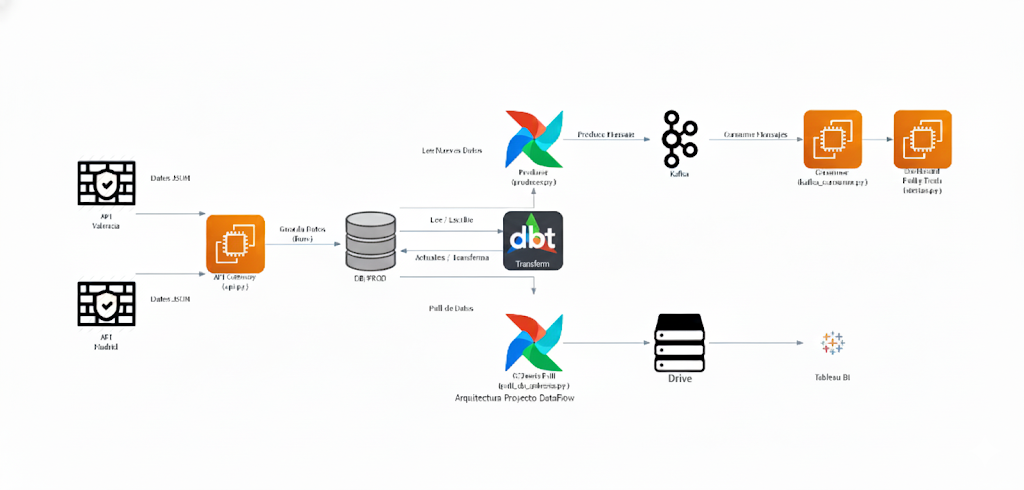
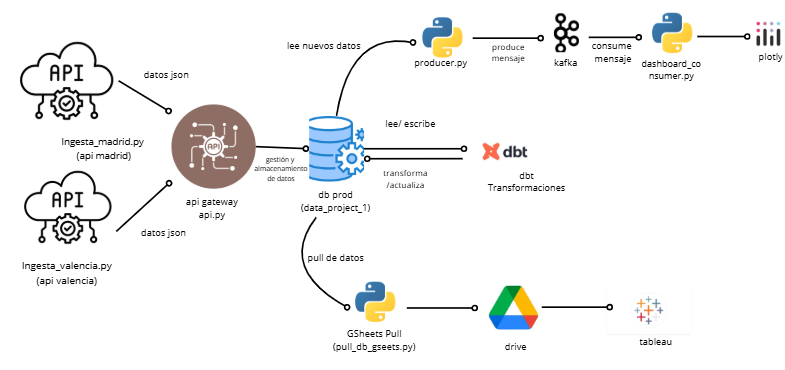
commit

diff --git a/README.md b/README.md
@@ -1,62 +1,239 @@
-# 💨 DATA PROJECT I: Monitorización de la Calidad del Aire
+# **💨 DATA PROJECT I: Sistema de Monitorización de la Calidad del Aire**
 
 **Máster en Big Data & Cloud 2025-2026**
+**Tutor**: Pedro Nieto. 
+**Participantes**: Daniel Adam, Gemma Balaguer, Pau Garcia. 
 
-**Tutor:** Pedro Nieto  
-**Participantes:** Daniel Adam, Pau Garcia, Gemma Balaguer
+## **1. INTORDUCCIÓN**
+El presente proyecto desarrolla un pipeline de datos integral orientado a la monitorización en tiempo real de la calidad del aire en las ciudades de Madrid y Valencia. La solución implementada aborda todas las fases del ciclo de vida del dato: ingesta, estandarización, almacenamiento, transformación, streaming, visualización y distribución hacia herramientas de análisis avanzado.
 
-## 🌟 1. Introducción
+El diseño propuesto responde a la necesidad de disponer de sistemas automatizados, fiables y escalables que permitan emitir alertas inmediatas a la población y proporcionar información detallada a organismos de gestión y toma de decisiones. Para ello, se ha construido una arquitectura modular apoyada en tecnologías ampliamente adoptadas en entornos de datos modernos.
 
-Este proyecto implementa un **pipeline de datos moderno y escalable** para la monitorización en tiempo real de la calidad del aire de las ciudades de **Madrid y Valencia**.
+## **2. Stack Tecnológico.**
 
-El sistema integra la ingesta de APIs externas, almacenamiento relacional, procesamiento **Batch (dbt)** y **Streaming (Kafka)**, y entrega a múltiples herramientas de Business Intelligence (Plotly/Tableau), todo orquestado y empaquetado mediante **Docker Compose**.
+**Ingesta** -> Python -> Obtención de datos desde APIs oficiales y procesamiento. 
 
-### 🛠 Stack Tecnológico Clave
+**Almacenamiento** -> PostgreSQL -> Base de datos relacional para datos brutos y modelos analíticos. 
 
-| Categoría | Tecnología | Uso Principal |
-| :--- | :--- | :--- |
-| **Ingesta** | Python (Requests) | Extracción de datos de APIs de Ayuntamientos (Madrid y Valencia). |
-| **Orquestación** | Docker Compose | Definición, construcción y orquestación de todos los servicios. |
-| **Almacenamiento** | PostgreSQL | Base de datos OLTP/Analítica para datos brutos y transformados. |
-| **Transformación** | dbt (Data Build Tool) | Modelado de datos (ELT) con SQL para generar *data marts*. |
-| **Streaming** | Apache Kafka | Plataforma de mensajería para desacoplamiento y procesamiento en tiempo real. |
-| **Visualización** | Plotly / Tableau | Dashboards de baja latencia (Plotly) y análisis profesional (Tableau). |
+**Transformación** -> dbt -> Construcción de modelos, liempieza y generación de data marts. 
 
----
+**Procesamiento en Tiempo real** -> Kafka -> publicación y consumo de eventos para alertas instantáneas.
 
-## 🏗 2. Arquitectura del Proyecto
+**Visualización** -> Plotly/Tableau ->  Dashboards operativos y analíticos para distintos perfiles de usuario.
 
-El sistema está diseñado como una arquitectura de **Lambda/Kappa simplificada**, combinando el procesamiento *batch* tradicional con capacidades de *streaming* en tiempo real.
+**Orquestación** - > Docker Compose -> Gestión y despliegue reproducible de todos los servicios.
 
+## **3.ARQUITECTURA DEL PROYECTO**
+![arquitectura](image-1.png)
 
+La arquitectura integra múltiples componentes coordinados para garantizar un flujo de datos robusto y automatizado. Se detallan a continuación sus principales etapas.
 
-### 2.1. Flujo de Datos
+#### **3.1. Ingesta de Datos**
 
-1.  **Ingesta (`/ingestas`):** Los scripts `ingesta_madrid.py` e `ingesta_valencia.py` extraen datos horarios de calidad del aire desde las APIs oficiales.
-2.  **API Gateway (`api.py`):** Los datos ingestados se envían a este *gateway* único para control de acceso, validación y estandarización de formatos antes de la persistencia.
-3.  **Base de Datos (`data_project_1` - PostgreSQL):** Almacenamiento centralizado de los datos **raw** (brutos).
-4.  **Transformaciones (dbt):** Modelado de datos (limpieza, normalización y cálculo de métricas) ejecutado sobre PostgreSQL para generar la capa de **Marts**.
-5.  **Streaming (Kafka):**
-    * **Producer (`producer.py`):** Lee continuamente nuevos registros de la base de datos y los envía al *cluster* de Kafka.
-    * **Consumer (`dashboard_consumer.py`):** Consume los mensajes de Kafka para alimentar un dashboard de alertas en **tiempo real** (Plotly).
-6.  **Entrega BI (Reverse ETL):**
-    * `pull_db_gsheets.py` exporta los *data marts* finales a Google Sheets.
-    * Tableau consume la información desde Google Sheets/Drive para dashboards de **análisis avanzado**.
+La carpeta /ingestas contiene los scripts ingesta_madrid.py e ingesta_valencia.py, responsables de:
 
----
+- Conectarse a las APIs oficiales de ambos ayuntamientos.
 
-## 🚀 3. Ejecución del Proyecto
+- Descargar los datos de calidad del aire en formato JSON.
 
-El proyecto se despliega completamente mediante un único comando de `docker-compose`.
+- Realizar las transformaciones necesarias para estandarizar las estructuras.
 
-### 3.1. Requisitos
+- Enviar los datos procesados a una API interna mediante solicitudes HTTP POST.
 
-* **Docker Desktop** (o Docker Engine y Docker Compose) instalado y en ejecución.
-* Configuración de credenciales de las APIs (si aplica) en el archivo `.env`.
+Esta capa permite aislar la lógica específica de cada proveedor de datos, manteniendo un diseño modular y extensible.
 
-### 3.2. Pasos de Ejecución (Comando Único)
+#### **3.2. API Gateway**
 
-El siguiente comando construye las imágenes, arranca la infraestructura (PostgreSQL, Kafka, UIs) y ejecuta automáticamente los *pipelines* de ingesta, transformación y *streaming*.
+El archivo api.py actúa como punto de entrada único al sistema. Su función es:
 
-```bash
+- Validar el contenido recibido desde los scripts de ingesta.
+
+- Homogeneizar la información independientemente del origen.
+
+- Insertar los datos en la base de datos relacional.
+
+Esta estrategia evita la conexión directa de múltiples componentes a la base de datos y facilita la gobernanza del sistema.
+
+#### **3.3. Almacenamiento en PostgeSQL**
+
+La base de datos data_project_1 constituye el repositorio central del pipeline.
+Almacena:
+
+- Datos crudos (raw layer) procedentes de la API.
+
+- Modelos transformados y tablas analíticas creadas mediante dbt.
+
+Su naturaleza relacional permite un control estructurado y un acceso eficiente para las capas posteriores.
+
+#### **3.4. Transformación con dbt**
+
+El proyecto dbt ejecuta las transformaciones necesarias para:
+
+- Limpiar y normalizar las mediciones.
+
+- Generar métricas y agregaciones relevantes.
+
+- Construir la capa final de data marts destinada a herramientas de análisis.
+
+dbt garantiza reproducibilidad, control de versiones e integración directa con PostgreSQL.
+
+#### **3.5. Procesamiento en Tiempo Real con KAFKA**
+
+El ecosistema Kafka se compone de:
+
+Producer (producer.py): consulta periódicamente la base de datos y publica nuevos registros en un topic dedicado.
+
+- Consumer (dashboard_consumer.py): consume los mensajes recibidos y actualiza un dashboard operativo en Plotly, permitiendo visualizar alertas prácticamente en tiempo real.
+
+- Este componente habilita la comunicación asíncrona entre sistemas y permite escalar la arquitectura con múltiples consumidores especializados.
+
+#### **3.6. Entrega Herramientas de BI**
+
+Dado que Tableau no accede directamente a PostgreSQL en este entorno, el script pull_db_gsheets.py exporta los modelos finales a Google Sheets. Tableau consume estas hojas para generar dashboards de análisis avanzado dirigidos a perfiles expertos.
+
+## **4. Ejecución del Proyecto**
+
+El despliegue completo se realiza mediante Docker, lo que garantiza reproducibilidad y facilita la puesta en marcha del ecosistema.
+
+#### **4.1. Requisitos previos**
+
+1. Docker Engine o Docker Desktop instalado.
+
+2. Docker Compose operativo.
+
+3. Archivo .env configurado (si corresponde).
+
+#### **4.2. Inicio del sistema**
+
+Para desplegar todos los servicios (PostgreSQL, Kafka, API, dbt, dashboards, etc.) se utiliza el siguiente comando:
+
+``` sh
 docker compose up -d
+
+```
+Este proceso construye las imágenes necesarias, levanta los contenedores y activa los flujos de ingesta, transformación y procesamiento en tiempo real.
+
+#### **4.2. Verificación del estado de los servicios**
+Permite comprobar que todos los contenedores se encuentran en ejecución y en estado saludable.
+
+```sh
+docker compose ps
+```
+#### **4.3. Monitorización de los dashboards.**
+
+- Alertas en tiempo real (Plotly)
+
+Interfaz destinada a simular la visualización que tendría un usuario final (ciudadanía).
+Acceso desde el navegador:
+
+👉 http://localhost:8050
+
+- Dashboards en tableau.
+Acceso del usuario: 
+
+👉  https://public.tableau.com/app/profile/daniel.adam5716/viz/CalidadAireDP_varias/Alertas
+
+## **4. Origen de Datos y Flujo de Entrega**
+
+#### **4.1. Origen de Datos**
+
+**Calidad del Aire-Tiempo real** - > API Ayuntamiento de Madrid -> https://ciudadesabiertas.madrid.es/dynamicAPI/API/query/calair_tiemporeal.json?pageSize=5000
+
+**Estaciones de Contaminación Atmosférica** ->API Ayuntamiento de Valencia ->https://valencia.opendatasoft.com/api/records/1.0/search/?dataset=estacions-contaminacio-atmosferiques-estaciones-contaminacion-atmosfericas&rows=1000
+
+
+Ambas fuentes proporcionan datos fiables, auditables y con garantías institucionales, requisito esencial para un sistema que puede ser utilizado en un contexto de salud pública.
+
+#### 4.2. Estructura del Repositorio y Rol de Cada Componente
+
+Este documento describe la organización del repositorio y la función específica de cada carpeta y archivo dentro de la arquitectura general del proyecto.
+
+---
+
+## 🏗 Componentes de la Arquitectura
+
+| Carpeta / Archivo | Rol en la Arquitectura | Descripción |
+| :--- | :--- | :--- |
+| **README.md** | **Documentación General** | Proporciona una visión general del proyecto, la arquitectura utilizada y los pasos detallados para la instalación y ejecución del sistema. Es el punto de partida para cualquier usuario o desarrollador. |
+| **requirements.txt** | **Dependencias Python** | Contiene la lista de librerías y paquetes de Python necesarios para asegurar un entorno de ejecución reproducible. Se utiliza para instalar todas las dependencias del proyecto. |
+| **docker-compose.yml** | **Infraestructura** | Archivo clave para la orquestación. Define y configura los servicios de la infraestructura como **Kafka**, **Zookeeper**, **PostgreSQL**, la **API**, **dbt** y otros scripts asociados, permitiendo desplegar todo el entorno con un solo comando. |
+| **`/ingestas`** | **Ingesta de Datos** | Carpeta que alberga los scripts de Python encargados de la **conexión y extracción de datos** desde las APIs oficiales de origen (actualmente Madrid y Valencia). Son los responsables de alimentar el *pipeline* de datos. |
+| **`/kafka`** | **Streaming** | Contiene los archivos de configuración y *settings* necesarios para el correcto funcionamiento de los brokers de **Kafka** y el servicio de coordinación de **Zookeeper**. |
+| **`producer.py` / `dashboard_consumer.py`** | **Procesamiento en Tiempo Real** | Scripts esenciales para el sistema de alertas: **`producer.py`** es el encargado de enviar mensajes (datos) a los *topics* de Kafka, y **`dashboard_consumer.py`** los consume para generar y gestionar las alertas en tiempo real. |
+| **`/dbt/models`** | **Transformación (ELT)** | Aquí reside la lógica de **Modelado SQL** utilizando la herramienta **dbt (data build tool)**. Los modelos están organizados por etapas: `staging` (limpieza inicial), `intermediate` (lógica de negocio) y `marts` (tablas finales optimizadas para el consumo). |
+| **`pull_db_gsheets.py`** | **Reverse ETL** | Script de automatización para la **exportación de datos** limpios y transformados (generalmente desde los *marts* de PostgreSQL) hacia **Google Sheets**. Esto facilita el análisis posterior y la visualización en herramientas como Tableau. |
+
+---
+
+## 🚀 Flujo General (Concepto)
+
+El repositorio está diseñado para un **flujo de datos *end-to-end***:
+
+1.  **Ingesta:** Scripts en `/ingestas` extraen datos de APIs.
+2.  **Streaming/Real-Time:** Los datos se publican en Kafka (`producer.py`) y se monitorean (`dashboard_consumer.py`).
+3.  **Almacenamiento:** Los datos persisten en **PostgreSQL**.
+4.  **Transformación:** **dbt** (`/dbt/models`) transforma los datos crudos en modelos listos para el análisis.
+5.  **Reverse ETL:** El script `pull_db_gsheets.py` exporta los resultados finales para la visualización de negocio.
+
+
+## **5. Modelo y Visualización de Datos**
+
+El proyecto se sustenta en una doble capa de visualización para cubrir tanto la monitorización en tiempo real como el análisis histórico.
+
+#### **5.1. ⚡ Visualización de Datos a Tiempo Real (Plotly/Dash)**
+
+El dashboard opera a baja latencia, leyendo directamente desde Kafka.
+
+##### Finalidad del Dashboard
+
+* **Alertas inmediatas:** Notificación visual con Semáforo (Rojo/Verde) al superar los límites de contaminación.
+* **Análisis Rápido:** Uso de Gráfico Radar para identificar el contaminante responsable de la alerta.
+
+##### Lógica Central de Alerta
+
+La clasificación se basa en la comparación con los límites de la OMS o normativa local (en $\mu \text{g}/\text{m}^3$):
+
+$$
+\text{LIMITES} = \{
+    \text{"NO}_2\text{": 40 (Diaria)}, 
+    \text{"O}_3\text{": 100 (Horaria)}, 
+    \text{"PM}10\text{": 50 (Diaria)}, 
+    \text{"PM}2.5\text{": 25 (Diaria)}
+\}
+$$
+
+| Nivel | Rango (%) Respecto al Límite | Color | Alerta |
+| :--- | :--- | :--- | :--- |
+| **Bajo** | $< 50\%$ | Verde | ✅ AIRE LIMPIO |
+| **Medio** | $50\%$ a $100\%$ | Amarillo | ⚠ PRECAUCIÓN |
+| **Alto** | $> 100\%$ | Rojo | 🚨 ALERTA |
+
+##### Cálculos Clave
+* **Normalización (Saturación):** $\left( \frac{\text{Valor Actual}}{\text{Límite Legal}} \right) \times 100$.
+* **Gráfico Radar:** Usa el porcentaje de saturación (hasta un máximo de 150%) para dibujar el polígono. Si cualquier gas supera el $100\%$, el polígono completo se colorea de rojo.
+
+#### **5.2. 📈 Visualización de Datos con Tableau**
+
+**Acceso:** [CalidadAireDP_varias | Tableau Public](https://public.tableau.com/app/profile/pablo.garcia4815/vizes/CalidadAireDP_varias/VisinGlobal-Alertas)
+
+La visualización en Tableau se centra en el análisis de negocio e histórico a partir de los datos modelados.
+
+##### 1. VISIÓN GLOBAL - ALERTAS
+* **Propósito:** Mostrar la situación actual y las alertas activas en las estaciones.
+* **Controles:** Filtro de **Ciudad** y umbrales de alerta ajustables por el usuario.
+* **Mapa:** Código de color (Verde/Rojo) basado en la activación de alertas por estación.
+
+##### 2. VISIÓN AL DETALLE - GASES/PARTÍCULAS
+* **Propósito:** Análisis específico de un contaminante seleccionado.
+* **Tendencia de 5 horas:** Muestra la evolución reciente (series temporales) para identificar subidas o bajadas rápidas.
+* **Anomalías (Gráfico de Barras):** Compara la última medición con el promedio de la última hora.
+    * **Barra Roja (+):** La contaminación está subiendo (pico o anomalía).
+
+##### 3. VISTA DE HISTÓRICOS
+* **Propósito:** Analizar la evolución a largo plazo (anual y mensual) de la concentración de gases.
+* **Filtros:** **Gas**, **Rango de Fechas** y **Estación**.
+* **Nota:** Los datos históricos de Valencia finalizan en 2022 debido a la disponibilidad de la API.
+
+##### 4. ESTACIONES OFFLINE - SIN ENVIAR DATOS
+* **Propósito:** Monitorizar la salud operativa de las estaciones.
+* **Funcionalidad:** Muestra una lista de estaciones que no han enviado datos en un período definido por el parámetro "Umbral de horas offline", indicando la **Máx. Fecha Carga** y las **Horas offline** transcurridas.
